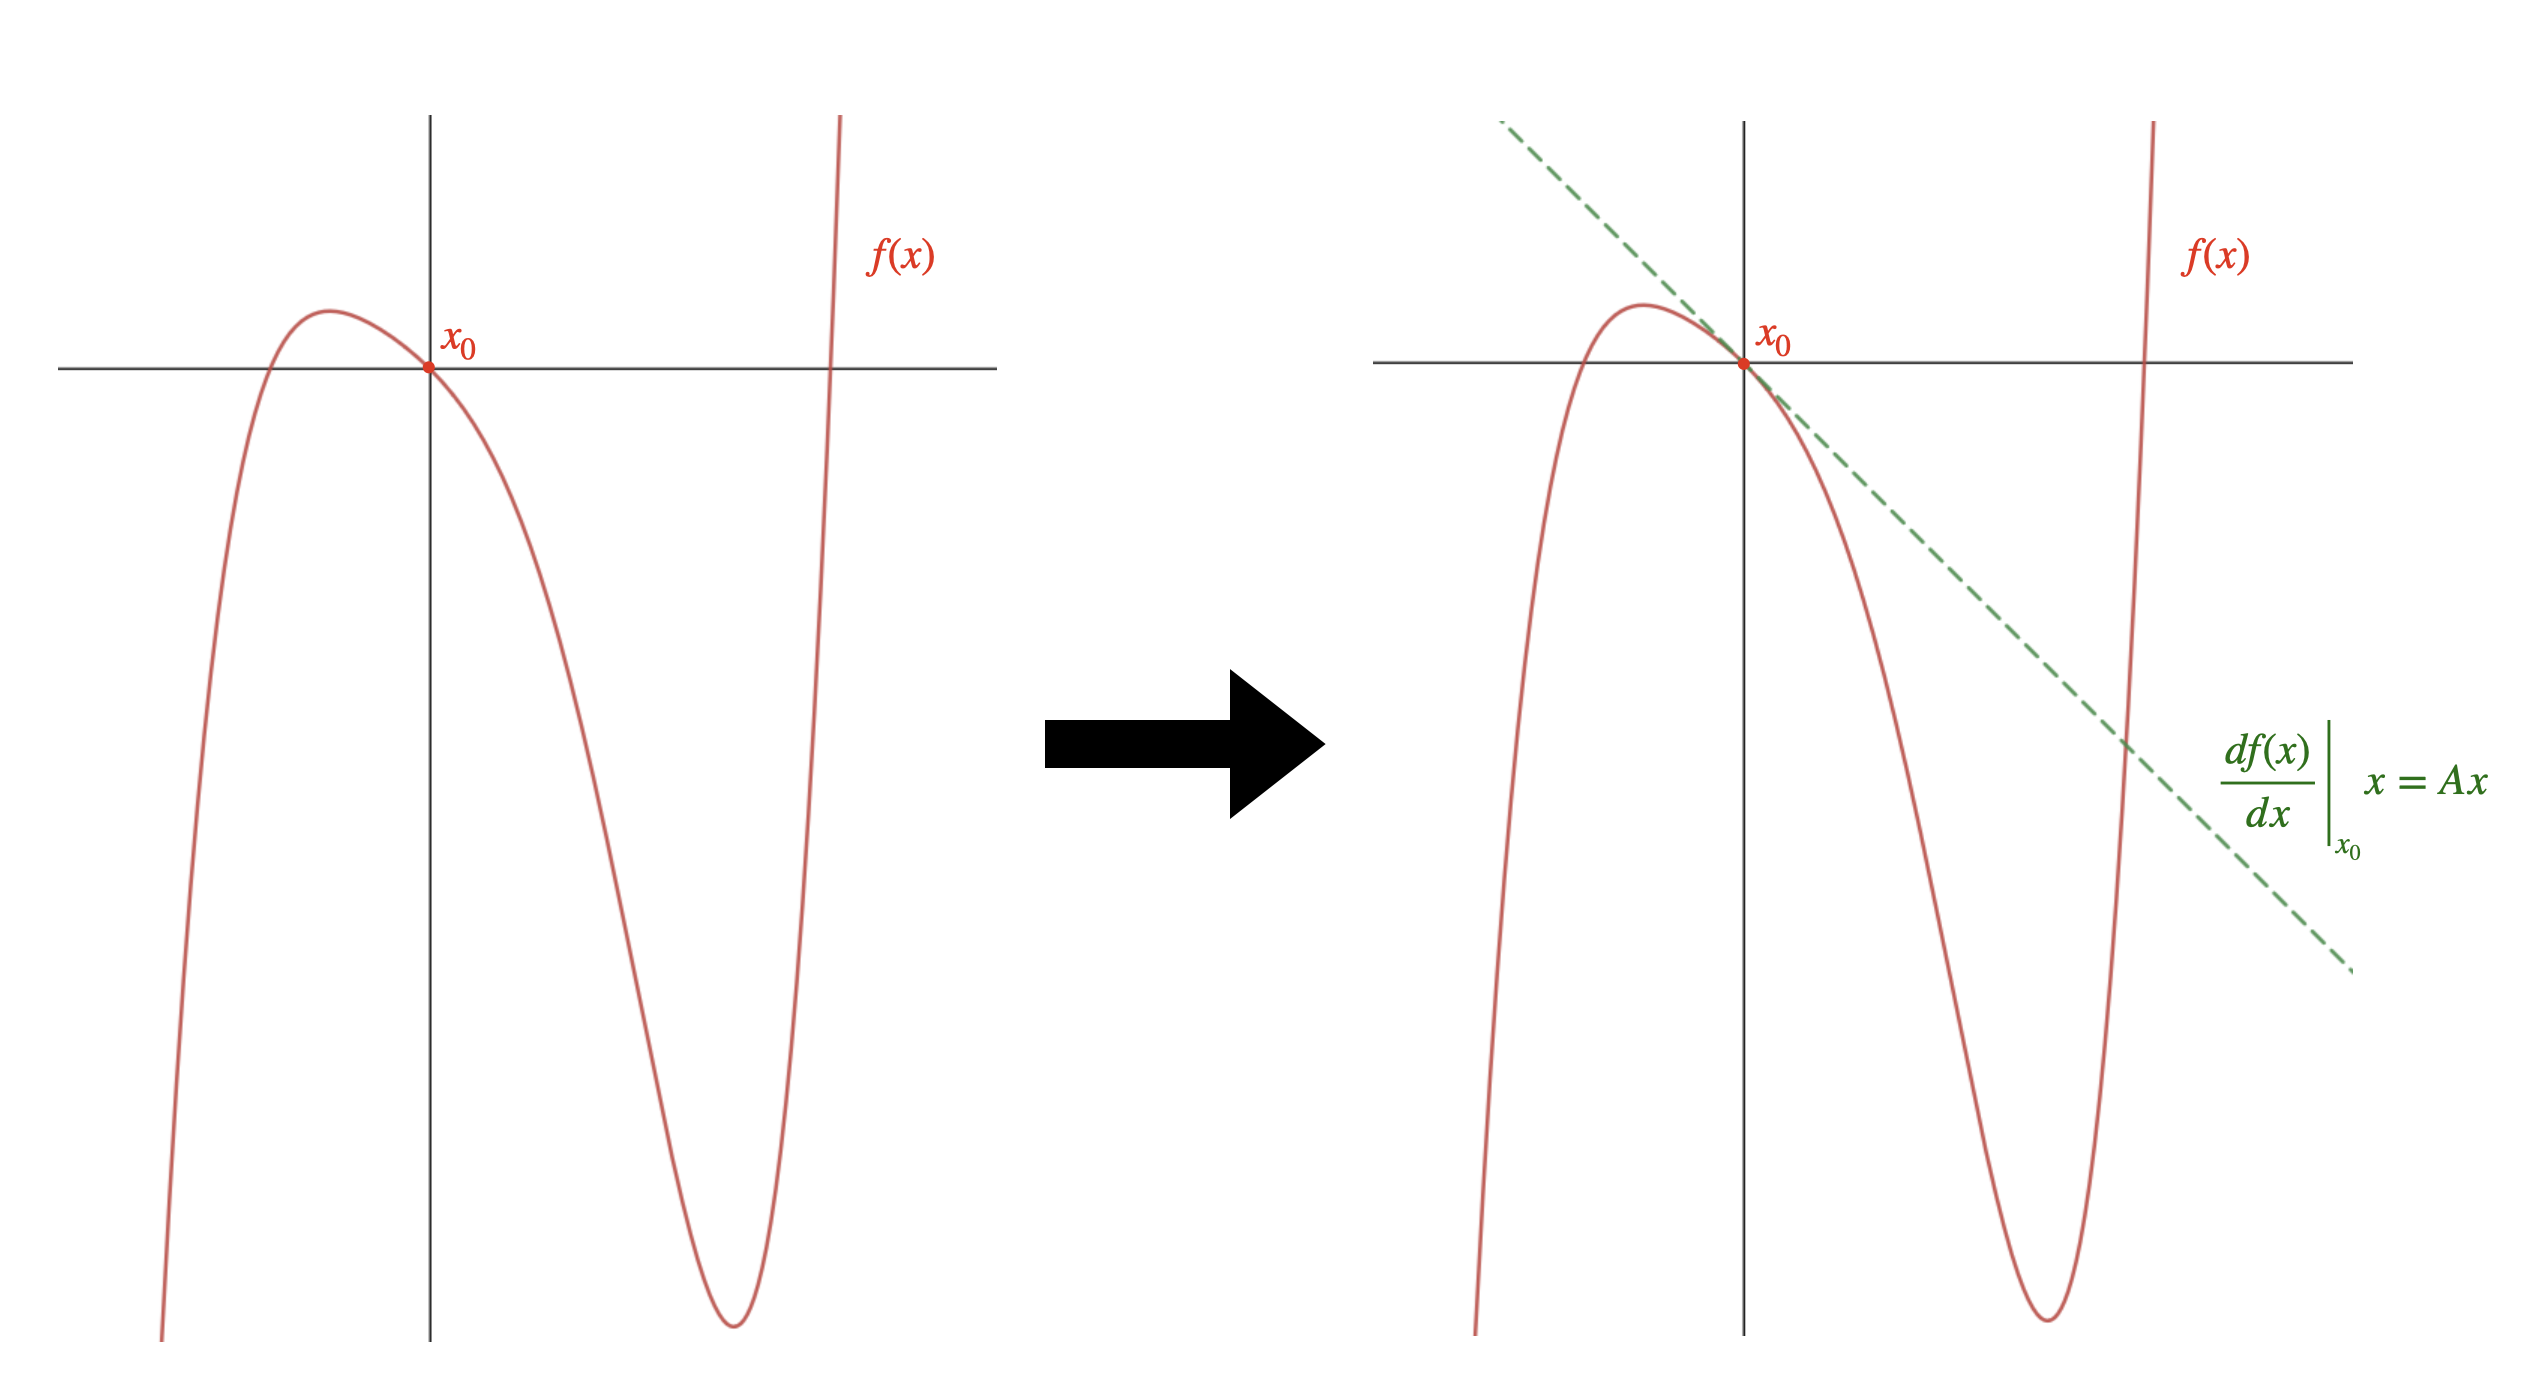
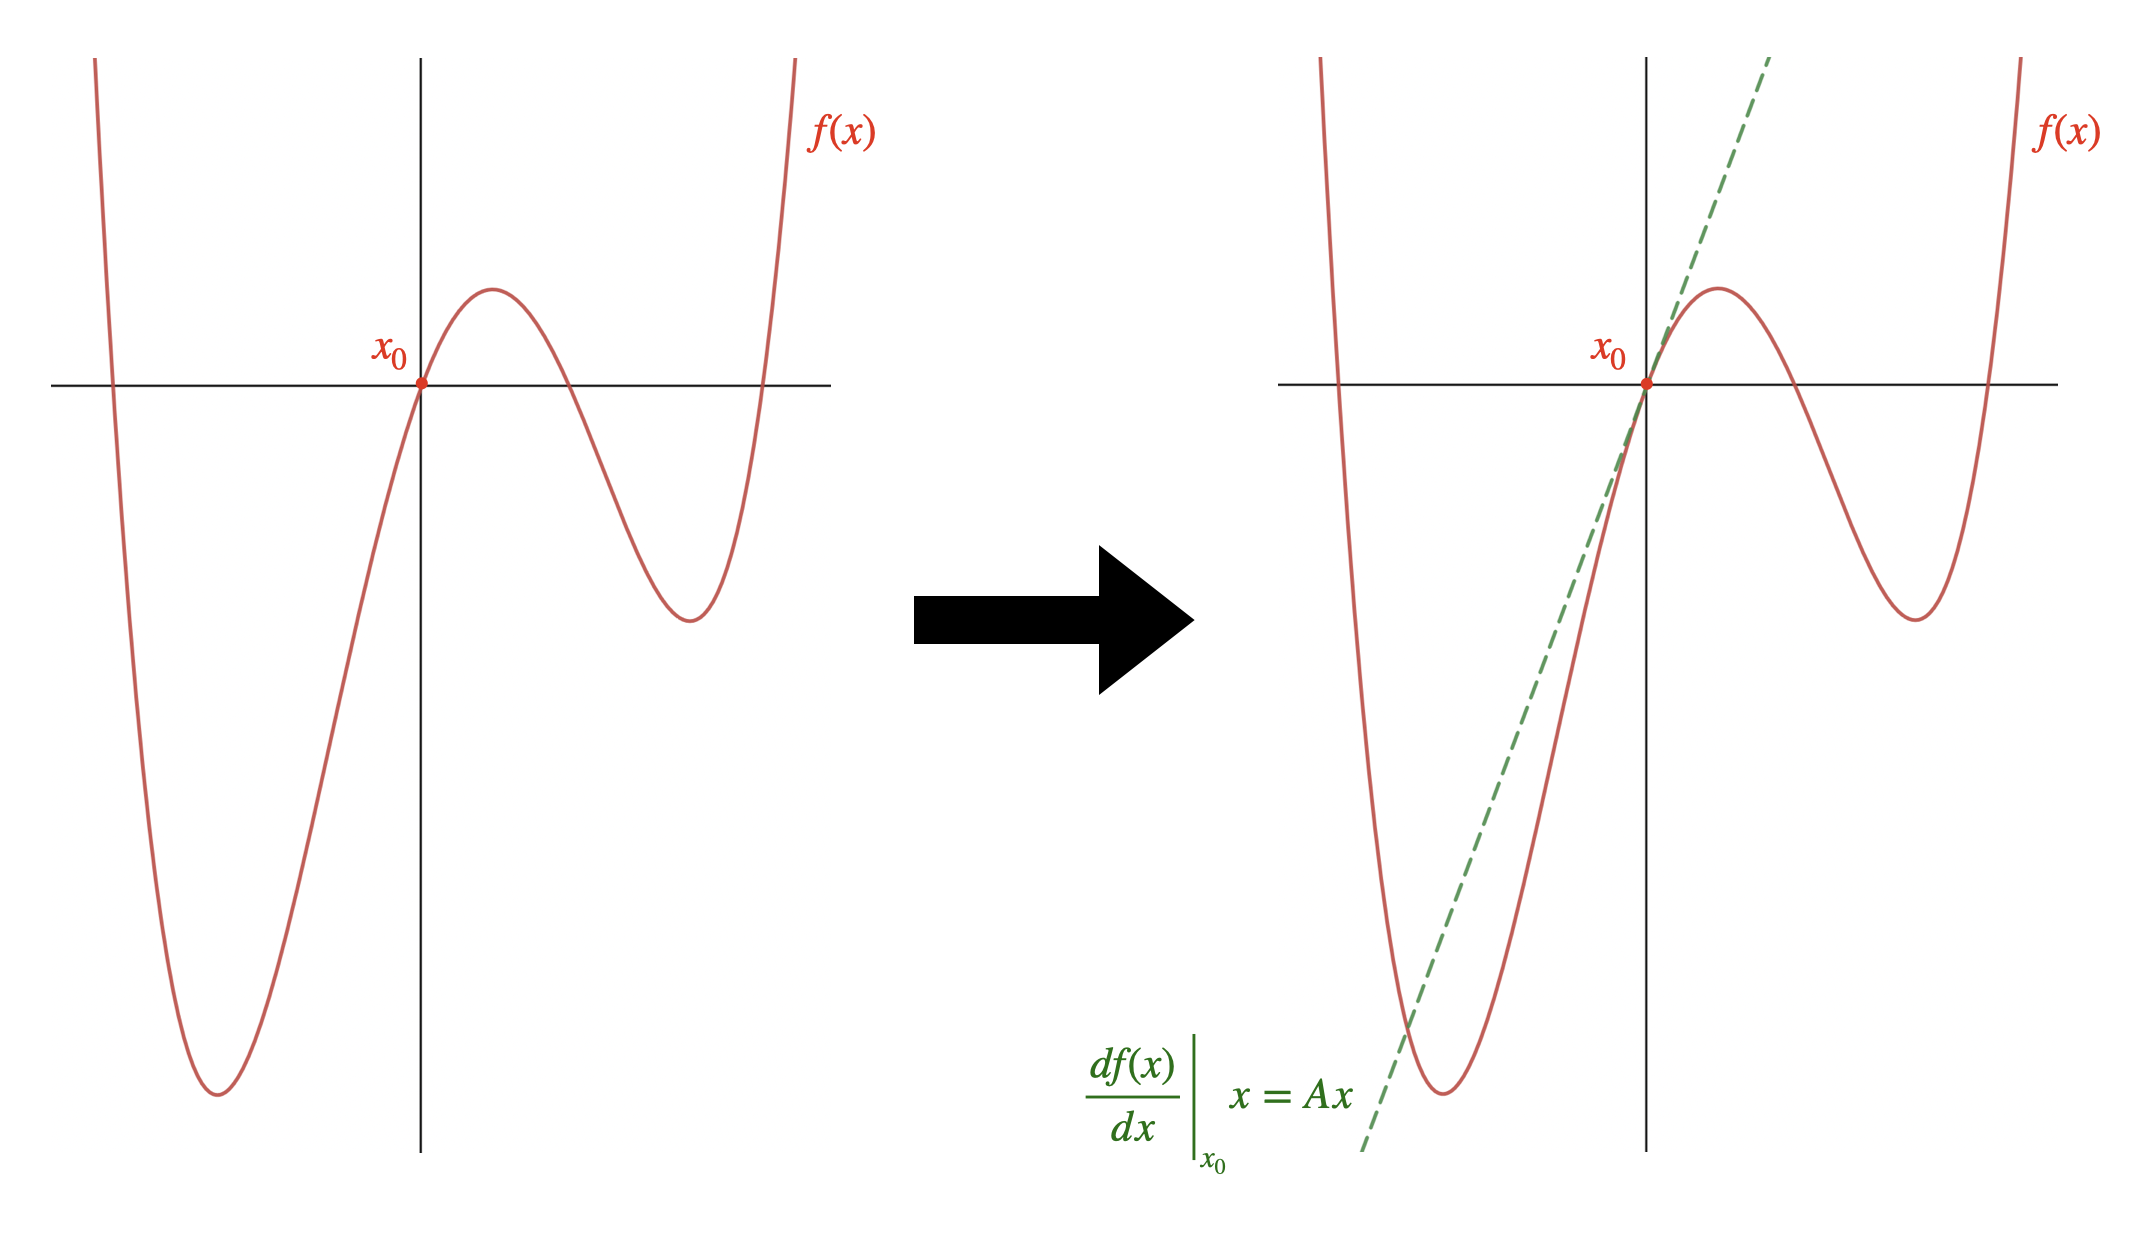
SCP algorithm

diff --git a/_posts/2024-02-25-rocket-landing.md b/_posts/2024-02-25-rocket-landing.md
@@ -65,7 +65,7 @@ but the only thing that matters is that we can write this function down[^5]! Bri
 $$\underset{u}{\min} \ \sum_{k=1}^T ||u_k||_2 \quad \textit{(minimize fuel use)}$$
 {: .text-center}
 
-$$\text{s.t. } x_{k+1} = f(x_{k}, u_k) \ \forall k=1 \ldots T-1 \quad \textit{(move according to the laws of physics)}$$
+$$\text{s.t. } x_{k+1} = f(x_{k}, u_k) \ \forall k=1 \ldots T-1 \quad (*) \textit{(move according to the laws of physics)}$$
 {: .text-center}
 
 $$||u_k||_2 \leq u_{\text{max}} \ \forall k=1\ldots T \quad \textit{(force can never be too high)}$$
@@ -80,13 +80,21 @@ $$\dot{x}_T=0 \quad \textit{(have zero velocity at the final time)}$$
 $$(x_y)_k \geq 0 \ \forall k=1\ldots T \quad \textit{(stay above the ground)}$$
 {: .text-center}
 
-Although everything we've written down has a relatively simple motivation, looking at this as a human, this is a mess - how can you possibly come up with a sequence of $$u$$'s that get you to your goal, let alone an *optimal* sequence, especially if $$f$$ is a complicated function? Luckily, we can do this systematically with little more math than is taught in high school calculus.
+Although everything we've written down has a relatively simple motivation, looking at this as a human, this is a mess - how can you possibly come up with a sequence of $$u$$'s that gets you to your goal, let alone an *optimal* sequence, especially if $$f$$ is a complicated function? Luckily, we can do this systematically with little more math than is taught in high school calculus.
 
-### 3. Sequential Convex Programming
+### 3. Sequential Convex Programming (SCP)
 
 The first thing to note is that there is a large difference between following a path and coming up with a path yourself - think about the difference between solving a maze for the first time, and tracing a correct path someone has shown you with your pencil. If we can invest some effort into coming up with a path through the maze, all we have to do later is follow the path we've laid out. This saves us critical computation time onboard our spacecraft.
 
 One of the primary enabling technologies of propulsive landing has been Sequential Convex Programming (SCP), which is a method of generating these feasible trajectories ahead of time.
+
+#### 3.1 Convex Optimization Problems
+
+One extremely important property of optimization problems is "convexity". While we won't get into the math here[^7], the intuition is remarkably simple. Convex problems are shaped like bowls, where there is only one "local minimum". This means that if you stop making progress, you know you've reached the optimal solution. By contrast, nonconvex problems can be arbitrarily shaped, and you can get stuck in a several places without knowing that if you try a bit harder, you can find an even better solution.
+
+![convex](/assets/rocket_landing/convex.png){: width="500px" .align-center}
+
+To make this concrete, the function on the left is convex, so if you roll a ball down the hill starting from anywhere, you'll reach the minimum. For the nonconvex function on the right, the final location of the ball is dependent on where you start the ball. It's not hard to see how this could translate to a tougher optimization problem.
 
 <div>
 <b>Aside: Linearization</b>
@@ -95,23 +103,30 @@ One key concept we need to develop in our discussion of successive convexificati
 <br>
 <img src="/assets/rocket_landing/linearization.png" alt="linearization example">
 <br>
-In the above example, we managed to replace our extremely complicated f(x), which has multiple local minima and maxima, with a MUCH simpler straight line, that performs basically the same way as long as we stay close to our linearization point x_0. As it turns out, it's much easier to optimize these functions as well (specifically, linear constraints are convex).
+In the above example, we managed to replace our extremely complicated f(x), which has multiple local minima and maxima, with a MUCH simpler straight line, that performs basically the same way as long as we stay close to our linearization point x_0. This is a very simple way of "convexifying" our nonconvex dynamics so that we can optimize more efficiently.
 </div>
 {: .notice--info}
 
-#### 3.1 Convex Optimization Problems
+#### 3.2 The SCP Process
+With an intuitive understanding of convex optimization, we can put it all together. The pseudocode of sequential convex programming is as follows:
 
-One extremely important property of optimization problems is "convexity". While we won't get into the math here[^7], the intuition is remarkably simple. Convex problems are shaped like bowls, where there is only one "local minimum". This means that if you stop making progress, you know you've reached the optimal solution. By contrast, nonconvex problems can be arbitrarily shaped, and you can get stuck in a several places without knowing that if you try a bit harder, you can find an even better solution.
+1. Starting from your initial condition $$x_0$$, take a completely random guess at a sequence of inputs (for example - use $$u_k=0 \text{ for all } k=1...\ldots$$!). Use the dynamics function $$f(x,u)$$ to calculate the state of the rocket at all times $$x_k$$ based on these inputs.
 
-![convex](/assets/rocket_landing/convex.png){: width="500px" .align-center}
+2. Approximate the dynamics by linearizing at every time step, $x_{k+1} = A_k x_k + B_k u_k = \frac{df}{dx}\bigg |_{x_k} x_k + \frac{df}{du}\bigg |_{u_k} u_k$$. Note that now, Equation $$(*)$$ is a convex constraint, so it doesn't make the optimization harder.
 
-To make this concrete, the function on the left is convex, so if you roll a ball down the hill starting from anywhere, you'll reach the minimum. For the nonconvex function on the right, the final location of the ball is dependent on where you start your roll. It's not hard to see how this could translate to a tougher optimization problem.
+3. Solve the convex optimization problem using the linearized dynamics to ensure things remain simple - this yields a new sequence of inputs $$u$$
 
-#### 3.2 Simple Example
+4. Repeat from step 1: apply your new $$u$$ to the dynamics, linearize around this new trajectory, and optimize!
+
+5. Repeat this process until your final state is reached within some tolerance! You now have a set of states $x$ and inputs $u$ that you know your rocket can follow (in theory), that will get you to the landing site!
 
 #### 3.3 Rocket Landing Example
 
+### 4. Putting it all together: a typical EDL pipeline
+
 ### 5. Challenges and the Future of Propulsive Landing
+
+### 6. More rigorous resources
 
 [^1]: Note that while I've worked on GN&C control software on the Orion spacecraft at NASA and for satellites at SpaceX, I've never worked directly on the landing problem at SpaceX or any other company. As such, take this information with a grain of salt.
 [^2]: OK, [I said "relatively"](https://en.wikipedia.org/wiki/Quaternion)...
